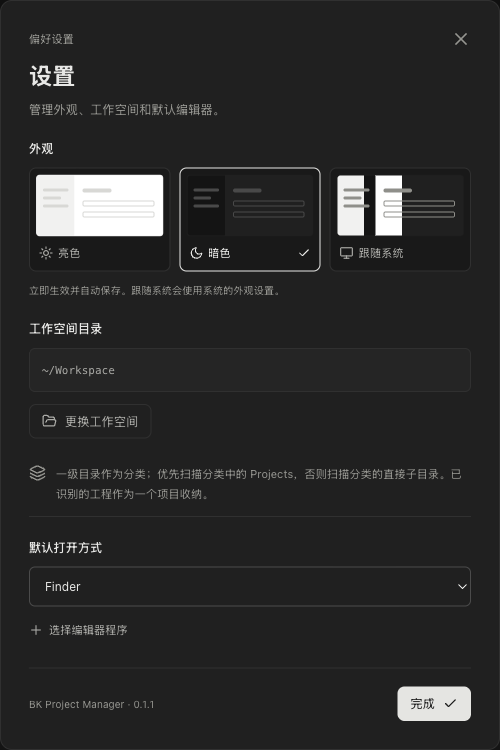
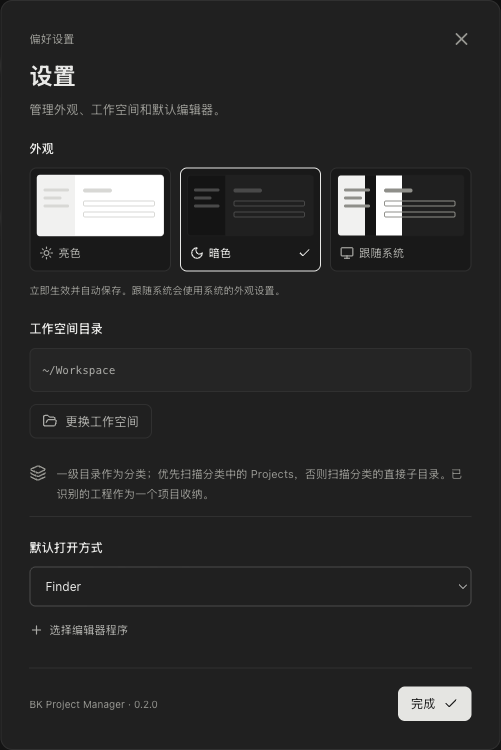
ui: move appearance controls into shared settings dialog

diff --git a/src/main.tsx b/src/main.tsx
@@ -217,7 +217,15 @@ function App() {
         : selection === 'recent'
           ? '最近打开'
           : selection.slice(9);
-  const choose = () => perform(api.chooseWorkspace);
+  const choose = () =>
+    perform(async () => {
+      const next = await api.chooseWorkspace();
+      if (session && next.settings.workspace !== state?.settings.workspace) {
+        await api.closeWorkbench(session.id).catch(() => {});
+        setSession(null);
+      }
+      return next;
+    });
   const changeTheme = (value: ThemePreference) => perform(() => api.setTheme(value));
   const open = (project: Project, action: 'default' | 'folder' | 'terminal' = 'default') =>
     perform(() => api.openProject(project.id, action), `已打开 ${project.name}`);
@@ -258,27 +266,106 @@ function App() {
     setQuery('');
   };
 
+  const settingsDialog = settings && (
+    <div className="modal-backdrop" onClick={() => setSettings(false)}>
+      <section
+        className="settings-modal"
+        role="dialog"
+        aria-modal="true"
+        aria-labelledby="settings-title"
+        onClick={(e) => e.stopPropagation()}
+      >
+        <div className="modal-heading">
+          <span className="modal-kicker">偏好设置</span>
+          <button aria-label="关闭设置" onClick={() => setSettings(false)}>
+            <X size={20} />
+          </button>
+        </div>
+        <h2 id="settings-title">设置</h2>
+        {error && (
+          <div className="error-banner" role="alert">
+            {error}
+          </div>
+        )}
+        <p className="settings-description">管理外观、工作空间和默认编辑器。</p>
+        <h3 className="settings-label">外观</h3>
+        <ThemeSelector value={theme} onChange={changeTheme} disabled={busy} />
+        <p className="theme-help">立即生效并自动保存。跟随系统会使用系统的外观设置。</p>
+        <label className="settings-label">工作空间目录</label>
+        <div className="settings-path">{state?.settings.workspace || '尚未选择工作空间'}</div>
+        {session && <p className="theme-help">更换工作空间会返回项目列表，并关闭当前项目终端。</p>}
+        <button className="secondary-button" disabled={busy} onClick={choose}>
+          <FolderOpen size={15} />
+          {state?.settings.workspace ? '更换工作空间' : '选择工作空间'}
+        </button>
+        <div className="settings-rule">
+          <Layers3 size={17} />
+          <p>
+            一级目录作为分类；优先扫描分类中的
+            Projects，否则扫描分类的直接子目录。已识别的工程作为一个项目收纳。
+          </p>
+        </div>
+        <label className="settings-label" htmlFor="default-opener">
+          默认打开方式
+        </label>
+        <select
+          id="default-opener"
+          className="settings-select"
+          value={state?.settings.opener || 'folder'}
+          disabled={busy}
+          onChange={(e) => perform(() => api.setOpener(e.target.value))}
+        >
+          {Object.entries(openerLabels).map(([value, label]) => (
+            <option value={value} key={value}>
+              {label}
+            </option>
+          ))}
+        </select>
+        <button
+          className="text-button choose-editor"
+          disabled={busy}
+          onClick={() => perform(api.chooseEditor)}
+        >
+          <Plus size={14} />
+          选择编辑器程序
+        </button>
+        {state?.settings.customEditor && (
+          <p className="editor-path">{state.settings.customEditor}</p>
+        )}
+        <div className="settings-bottom">
+          <span>BK Project Manager · {appVersion}</span>
+          <button className="primary-button" onClick={() => setSettings(false)}>
+            完成
+            <Check size={15} />
+          </button>
+        </div>
+      </section>
+    </div>
+  );
+
   if (session)
     return (
-      <Suspense
-        fallback={
-          <div className="viewer-empty">
-            <Loader2 className="spin" size={30} />
-            正在打开项目工作台
-          </div>
-        }
-      >
-        <ProjectWorkbench
-          session={session}
-          theme={theme}
-          onTheme={changeTheme}
-          onBack={() => void leaveProject()}
-          onExternal={() => open(session.project)}
-          busy={busy}
-          actionError={error}
-          onDismissError={() => setError('')}
-        />
-      </Suspense>
+      <>
+        <Suspense
+          fallback={
+            <div className="viewer-empty">
+              <Loader2 className="spin" size={30} />
+              正在打开项目工作台
+            </div>
+          }
+        >
+          <ProjectWorkbench
+            session={session}
+            onSettings={() => setSettings(true)}
+            onBack={() => void leaveProject()}
+            onExternal={() => open(session.project)}
+            busy={busy}
+            actionError={settings ? '' : error}
+            onDismissError={() => setError('')}
+          />
+        </Suspense>
+        {settingsDialog}
+      </>
     );
 
   return (
@@ -346,7 +433,6 @@ function App() {
           {!categories.length && <p className="sidebar-hint">选择工作空间后，分类会出现在这里。</p>}
         </nav>
         <div className="sidebar-bottom">
-          <ThemeSelector value={theme} onChange={changeTheme} disabled={busy} compact />
           <div className="local-note">
             <span className="online-dot" />
             项目保留在你的电脑上
@@ -658,81 +744,7 @@ function App() {
           {message}
         </div>
       )}
-      {settings && (
-        <div className="modal-backdrop" onClick={() => setSettings(false)}>
-          <section
-            className="settings-modal"
-            role="dialog"
-            aria-modal="true"
-            aria-labelledby="settings-title"
-            onClick={(e) => e.stopPropagation()}
-          >
-            <div className="modal-heading">
-              <span className="modal-kicker">偏好设置</span>
-              <button aria-label="关闭设置" onClick={() => setSettings(false)}>
-                <X size={20} />
-              </button>
-            </div>
-            <h2 id="settings-title">设置</h2>
-            {error && (
-              <div className="error-banner" role="alert">
-                {error}
-              </div>
-            )}
-            <p className="settings-description">管理外观、工作空间和默认编辑器。</p>
-            <h3 className="settings-label">外观</h3>
-            <ThemeSelector value={theme} onChange={changeTheme} disabled={busy} />
-            <p className="theme-help">立即生效并自动保存。跟随系统会使用系统的外观设置。</p>
-            <label className="settings-label">工作空间目录</label>
-            <div className="settings-path">{state?.settings.workspace || '尚未选择工作空间'}</div>
-            <button className="secondary-button" disabled={busy} onClick={choose}>
-              <FolderOpen size={15} />
-              {state?.settings.workspace ? '更换工作空间' : '选择工作空间'}
-            </button>
-            <div className="settings-rule">
-              <Layers3 size={17} />
-              <p>
-                一级目录作为分类；优先扫描分类中的
-                Projects，否则扫描分类的直接子目录。已识别的工程作为一个项目收纳。
-              </p>
-            </div>
-            <label className="settings-label" htmlFor="default-opener">
-              默认打开方式
-            </label>
-            <select
-              id="default-opener"
-              className="settings-select"
-              value={state?.settings.opener || 'folder'}
-              disabled={busy}
-              onChange={(e) => perform(() => api.setOpener(e.target.value))}
-            >
-              {Object.entries(openerLabels).map(([value, label]) => (
-                <option value={value} key={value}>
-                  {label}
-                </option>
-              ))}
-            </select>
-            <button
-              className="text-button choose-editor"
-              disabled={busy}
-              onClick={() => perform(api.chooseEditor)}
-            >
-              <Plus size={14} />
-              选择编辑器程序
-            </button>
-            {state?.settings.customEditor && (
-              <p className="editor-path">{state.settings.customEditor}</p>
-            )}
-            <div className="settings-bottom">
-              <span>BK Project Manager · {appVersion}</span>
-              <button className="primary-button" onClick={() => setSettings(false)}>
-                完成
-                <Check size={15} />
-              </button>
-            </div>
-          </section>
-        </div>
-      )}
+      {settingsDialog}
     </div>
   );
 }

diff --git a/src/ProjectWorkbench.tsx b/src/ProjectWorkbench.tsx
@@ -6,21 +6,20 @@ import {
   Files,
   FolderOpen,
   RefreshCw,
+  Settings2,
   SquareTerminal,
 } from 'lucide-react';
-import type { FilePreview, ThemePreference, WorkbenchSession } from './types';
+import type { FilePreview, WorkbenchSession } from './types';
 import { FileTree } from './FileTree';
 import { FileViewer } from './FileViewer';
 import { ProjectTerminal } from './ProjectTerminal';
-import { ThemeSelector } from './ThemeSelector';
 import './workbench.css';
 
 const api = window.workspaceAPI;
 const logo = new URL('../docs/assets/logo.svg', import.meta.url).href;
 export default function ProjectWorkbench({
   session,
-  theme,
-  onTheme,
+  onSettings,
   onBack,
   onExternal,
   busy,
@@ -28,8 +27,7 @@ export default function ProjectWorkbench({
   onDismissError,
 }: {
   session: WorkbenchSession;
-  theme: ThemePreference;
-  onTheme(value: ThemePreference): void;
+  onSettings(): void;
   onBack(): void;
   onExternal(): void;
   busy: boolean;
@@ -160,7 +158,10 @@ export default function ProjectWorkbench({
           <span className="workbench-category">{session.project.category}</span>
         </div>
         <div className="workbench-topbar-actions">
-          <ThemeSelector value={theme} onChange={onTheme} disabled={busy} compact />
+          <button className="external-open" aria-label="设置" onClick={onSettings} title="设置">
+            <Settings2 size={14} />
+            设置
+          </button>
           <button
             className="external-open"
             onClick={onExternal}

diff --git a/src/workbench.css b/src/workbench.css
@@ -53,9 +53,6 @@
 .external-open:hover {
   background: var(--hover);
 }
-.workbench-topbar .theme-selector {
-  margin: 0;
-}
 .workbench-topbar-actions {
   flex-shrink: 0;
   gap: 16px;

diff --git a/README.en.md b/README.en.md
@@ -71,7 +71,7 @@ The v0.2.0 source opens projects in a three-panel workbench. Published v0.1.1 in
 - **Left:** expand the project file tree on demand; refresh after changing files in the terminal.
 - **Center:** one read-only file at a time, with line numbers and VS Code Light+ / Dark+ syntax highlighting. No file tabs or editing controls. Common images can also be previewed.
 - **Right:** an interactive terminal starting in the project directory, with scrolling, Ctrl+C, clear and restart. macOS uses your login shell; Windows 11 uses PowerShell.
-- Resize the side panels, switch light/dark themes, return to the project list, or use the existing external opener. Returning closes the project's terminal.
+- Resize the side panels, switch light/dark themes in Settings, return to the project list, or use the existing external opener. Returning closes the project's terminal.
 
 <picture>
   <source media="(prefers-color-scheme: dark)" srcset="docs/assets/workbench-dark.png" />
